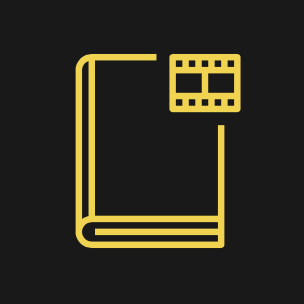
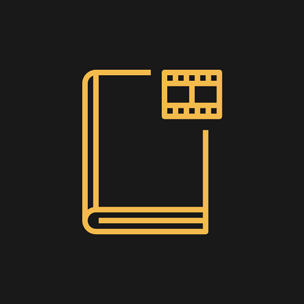
Add Jean Wei illustration, update gold color.

Changed region(s): [[0.2368, 0.1776, 0.7993, 0.8289]]

diff --git a/.eleventy.js b/.eleventy.js
@@ -16,6 +16,7 @@ module.exports = function(eleventyConfig) {
 
     eleventyConfig.addPassthroughCopy('src/img');
     eleventyConfig.addPassthroughCopy('src/robots.txt');
+    eleventyConfig.addPassthroughCopy('src/favicon.ico');
 
     eleventyConfig.addFilter('midDate', dateObj => {
         return DateTime.fromJSDate(dateObj, { zone: 'utc' }).toFormat('LLLL dd, yyyy');

diff --git a/src/scss/modules/_colors.scss b/src/scss/modules/_colors.scss
@@ -5,7 +5,7 @@ $dark: rgba(0, 0, 0, 0.9);
 $medium-dark: rgba(0, 0, 0, 0.5);
 $medium: #ccc;
 $light: #eee;
-$gold: #f5d327;
+$gold: #f3ba4c;
 $button: darken($c41, 20%);
 $button-hover: darken($button, 10%);
 $destructive: #fd6666; // "Salmon" from macOS color picker's "Pencils" panel

diff --git a/src/scss/marketing-site/_illustration.scss b/src/scss/marketing-site/_illustration.scss
@@ -1,0 +1,9 @@
+.illustration {
+    padding: 2rem 0;
+    text-align: center;
+
+    img {
+        height: auto;
+        max-width: 100%;
+    }
+}

diff --git a/src/scss/marketing-site/_all.scss b/src/scss/marketing-site/_all.scss
@@ -1,4 +1,5 @@
 @import 'social';
 @import 'why';
+@import 'illustration';
 
 body.landing { @import '../pages/landing'; }
